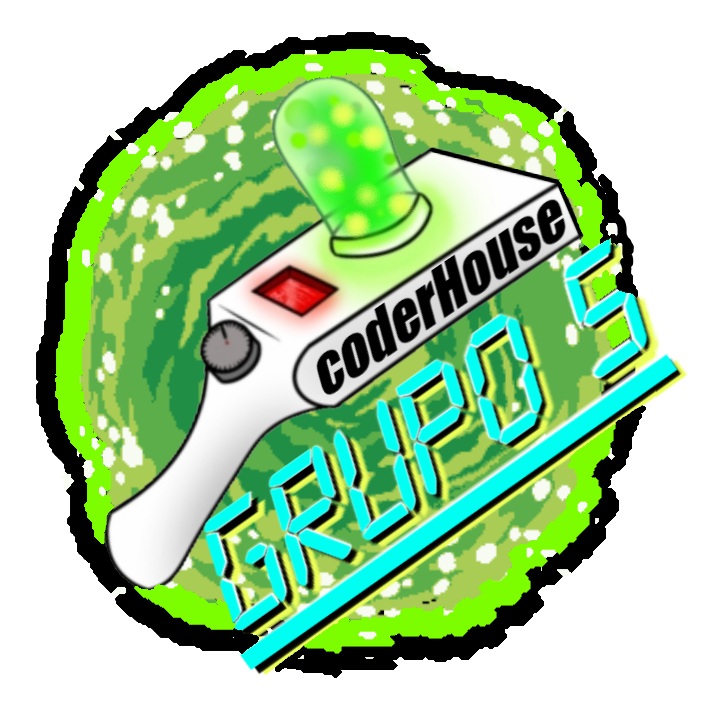
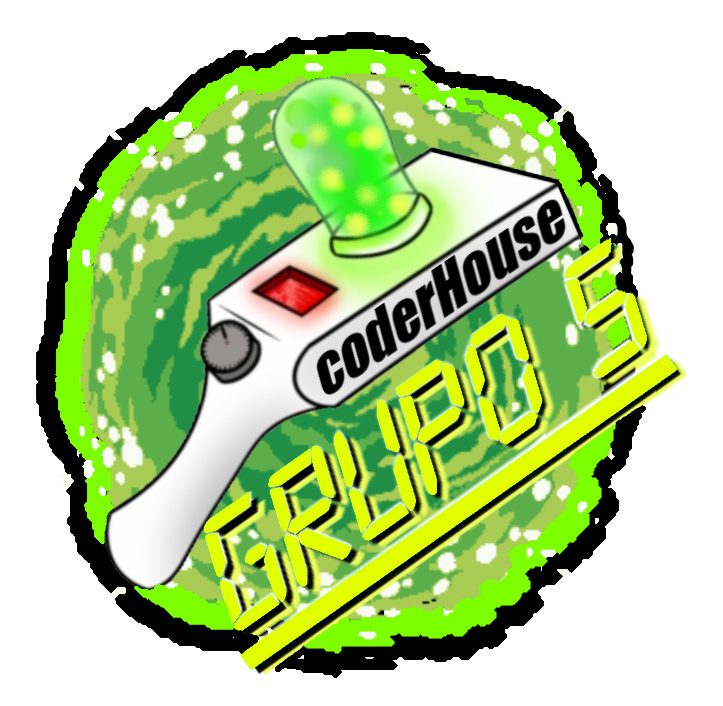
fnt capa e nav

Changed region(s): [[0.2739, 0.3428, 0.9433, 0.966]]

diff --git a/css/personagens_stylesheet.css b/css/personagens_stylesheet.css
@@ -13,15 +13,16 @@
 .h1 {
   width: 100%;
   height: auto ;
-  background-color: rgb(255, 247, 0);
+  background-color: #e2ff00;
   justify-content: right;
   font-family: "digitalPlay";
   font-style: italic;
   font-weight: 00;
   font-size: large;
-  color: #000000;
+  color:#7e00b4;
   text-align: center;
-  animation-duration: 5s;
+  margin-top: -5px;
+  animation-duration: 3.5s;
   animation-name: scroll;
   animation-iteration-count: infinite;
 }
@@ -36,7 +37,7 @@
   }
 
   66% {
-    opacity: 0%;
+    opacity: 100%;
   }
 
   99% {
@@ -45,12 +46,12 @@
 }
 
 .card {
-  width: 90%;
+  width: 92%;
   height: 160px;
-  margin-top: 45px;
+  margin-top: 20px;
   margin-left: 5%;
   margin-right: 5%;
-  margin-bottom: 50px;
+  margin-bottom: 40px;
   padding: 10px;
   background-color: rgb(0, 0, 0);
   border: 5px solid rgb(0, 255, 30);
@@ -82,7 +83,7 @@
   color: rgba(0, 0, 0, 0);
   font-weight: 100;
   line-height: 1.5;
-  z-index: 2;
+  z-index: 4;
 }
 
 .img {
@@ -100,18 +101,20 @@
 .card img:hover {
   transform: scale(1.2);
   transition: 1s;
-  z-index: 4;
+  z-index: 3;
 }
+
 .info:hover {
   width: 90%;
-  max-width: 80%;
+  max-width: 85%;
   height: 120px;
-  margin-top: 10px;
+  margin-top: 0.1%;
+  padding: 1% 1% 1% 1%;
   opacity: 90%;
-  background-color: rgba(170, 255, 0, 0.774);
+  background-color: #bdffa3;
   transition: all 0.5s;
   color: black;
   text-align: center;
-  z-index: 3;
+  z-index: 5;
 }
 

diff --git a/css/layout_stylesheet.css b/css/layout_stylesheet.css
@@ -1,6 +1,6 @@
 @font-face {
-  font-family: "irishgrover";
-  src: url("../assets/fonts/IrishGrover-Regular.ttf");
+  font-family: "OCRA";
+  src: url("../assets/fonts/OCRA.ttf");
 }
 * {
   margin: 0;
@@ -38,29 +38,39 @@ body {
   z-index: 0;
 }
 .navegador {
+  background-color: #e2ff00;
   position: relative;
   z-index: 3;
   transform: translate(10px, -25px);
   width: 100%;
-  height: 50px;
+  height:75px;
+  margin-top: -15px;
+  margin-left: -11px;
+  margin-right: -2%;
+  margin-bottom: -15px;
+  position: static;
   
 }
 .navegador a {
   text-decoration: none;
+  
 }
 .navegador button {
-  font-family: "irishgrover";
+  font-family: "OCRA";
   color: white;
   font-size: 25px;
   border-radius: 10px;
   background-color: #2f9331;
-  margin: 0px -4px;
+  margin:10px -4px;
+  margin-top: 0.7%;
   border-color: #2f9331;
   border-style: ridge;
-  width: calc((100% / 6));
+  width: calc((100% / 6.15));
   height: 50px;
   transition: 1s all;
   text-shadow: 1.5px 1.5px 1.5px black;
+  margin-left:2px;
+  align-items: center;
 }
 .navegador button:hover {
   transform: scale(110%);

diff --git a/css/contatos_stylesheet.css b/css/contatos_stylesheet.css
@@ -1,3 +1,8 @@
+@font-face {
+  font-family: "OCRA";
+  src: url("../assets/fonts/OCRA.ttf");
+}
+
 article {
   width: 100%;
   height: 100%;
@@ -32,7 +37,7 @@ a {
 }
 
 .contato__nome {
-  font-family: "impact";
+  font-family: Impact, Haettenschweiler, 'Arial Narrow Bold', sans-serif;
   font-weight: lighter;
   font-style: italic;
   font-size: 27px;
@@ -55,8 +60,8 @@ a {
   background-color: rgba(170, 255, 0, 0.772);
   border: rgb(26, 255, 0) solid 3px;
   border-radius: 2%;
-  font-size: medium;
-  font-family: Impact, Haettenschweiler, 'Arial Narrow Bold', sans-serif;
+  font-size: large;
+  font-family:"OCRA";
   width: 84% ;
   height: 80px;
   overflow-y: scroll;

diff --git a/pages/layout.html b/pages/layout.html
@@ -17,7 +17,7 @@
     <header>
       <div class="capa">
         <img
-        src="../assets\images\originais\capa_projeto2.png" />
+        src="../assets\images\originais\capa_projeto3.png" />
       <div class="ancora">
         <a href="../index.html">
           <img
